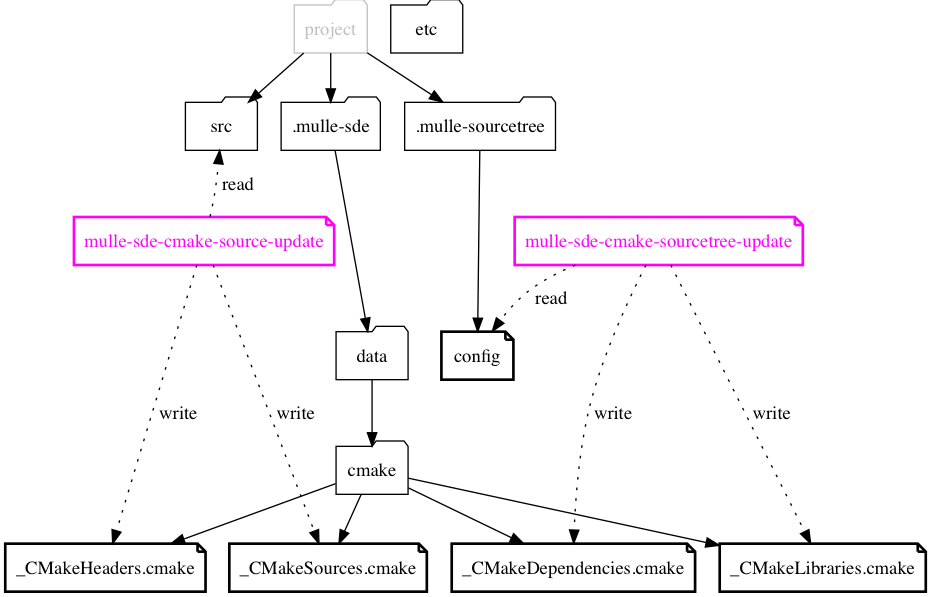
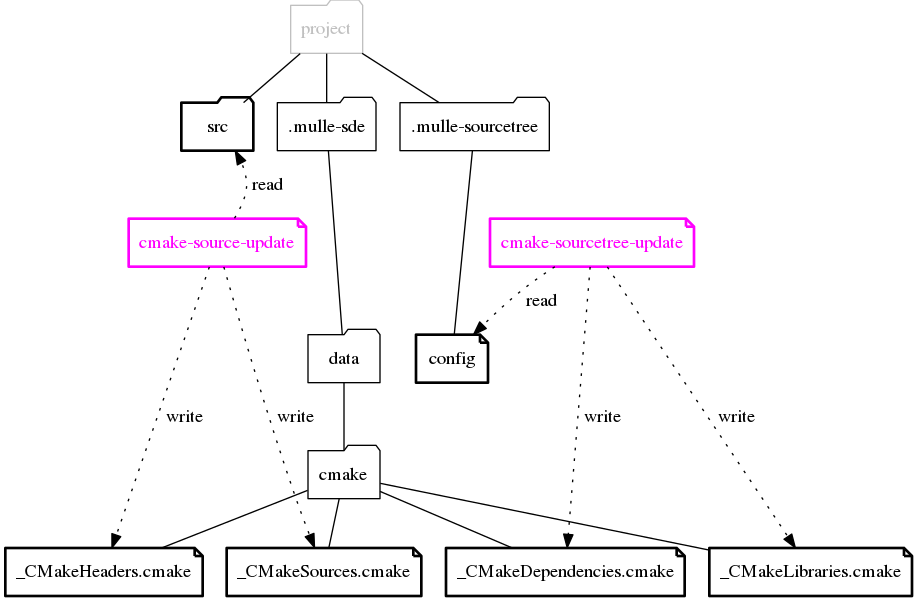
* use unqualified script names, since they are project local anyway

diff --git a/README.md b/README.md
@@ -17,13 +17,6 @@ macos       | `brew install mulle-kybernetik/software/mulle-sde-cmake`
 other       | Install prerequisite [mulle-sde](//github.com/mulle-sde/mulle-sde) first. Then `./install.sh`
 
 
-
-Executable                         | Description
------------------------------------|--------------------------------
-`mulle-sde-cmake-source-update`    | Generate cmake files from filesystem
-`mulle-sde-cmake-sourcetree-update`| Generate cmake files from mulle-sourcetree
-
-
 ## mulle-sde integration
 
 **mulle-sde** affects an *update* by calling the `source` and `sourcetree`
@@ -33,14 +26,13 @@ choosing the *buildtool* extension `mulle-sde:cmake`.
 ![](dox/mulle-sde-update.png)
 
 The callbacks trigger the "cmake-source-update" and "cmake-sourcetree-update"
-tasks. They in turn will execute `mulle-sde-cmake-source-update` and
-`mulle-sde-cmake-sourcetree-update` respectively.
+tasks. 
 
-**mulle-sde-cmake-source-update** will create the files `_CMakeHeaders.cmake`
+**cmake-source-update** will create the files `_CMakeHeaders.cmake`
 and `_CMakeSources.cmake` from the examination of the `src` folder and its
 subfolders according to the installed *patternfiles*.
 
-**mulle-sde-cmake-sourcetree-update** will create `_CMakeDependencies.cmake`
+**cmake-sourcetree-update** will create `_CMakeDependencies.cmake`
 and `_CMakeLibraries.cmake` from the contents of the
 [mulle-sourcetree](/mulle-sde/mulle-sourcetree).
 
@@ -50,7 +42,7 @@ and `_CMakeLibraries.cmake` from the contents of the
 
 ## Customization
 
-`mulle-sde-cmake-source-update` will emit cmake definitions according to the
+`cmake-source-update` will emit cmake definitions according to the
 *patternfile* category. As an example:
 
 Your *patternfile* is called `00-source--experimental`. All files matching
